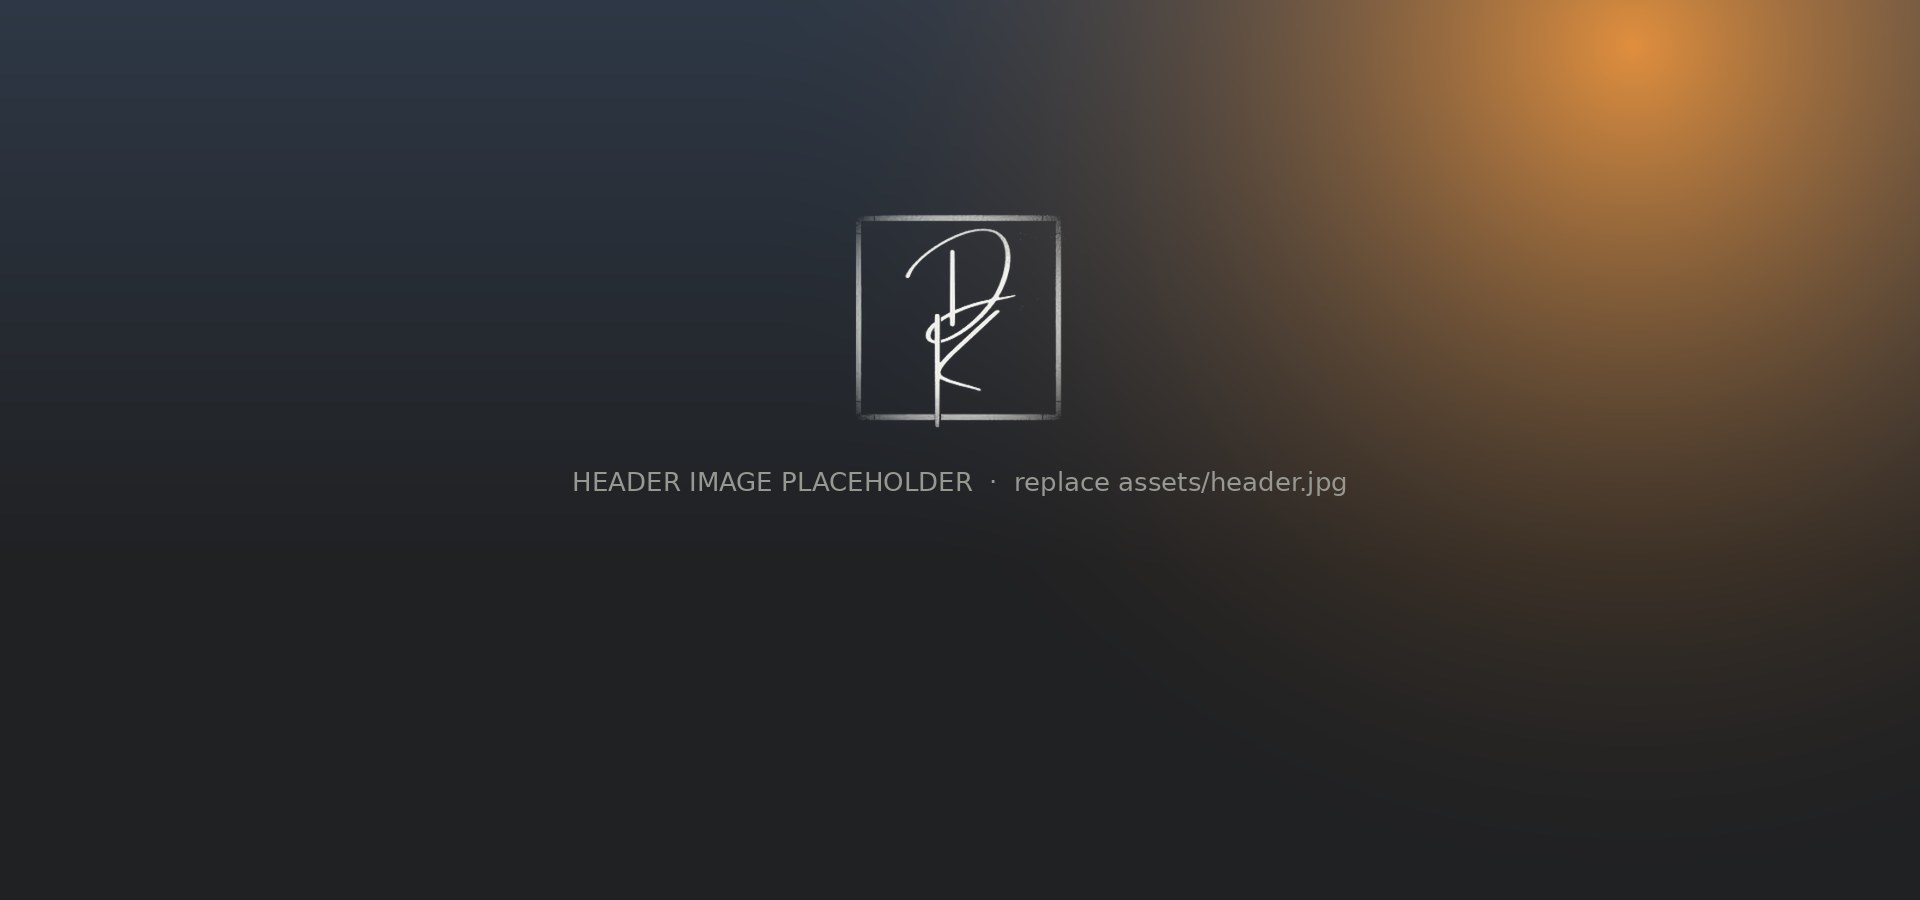
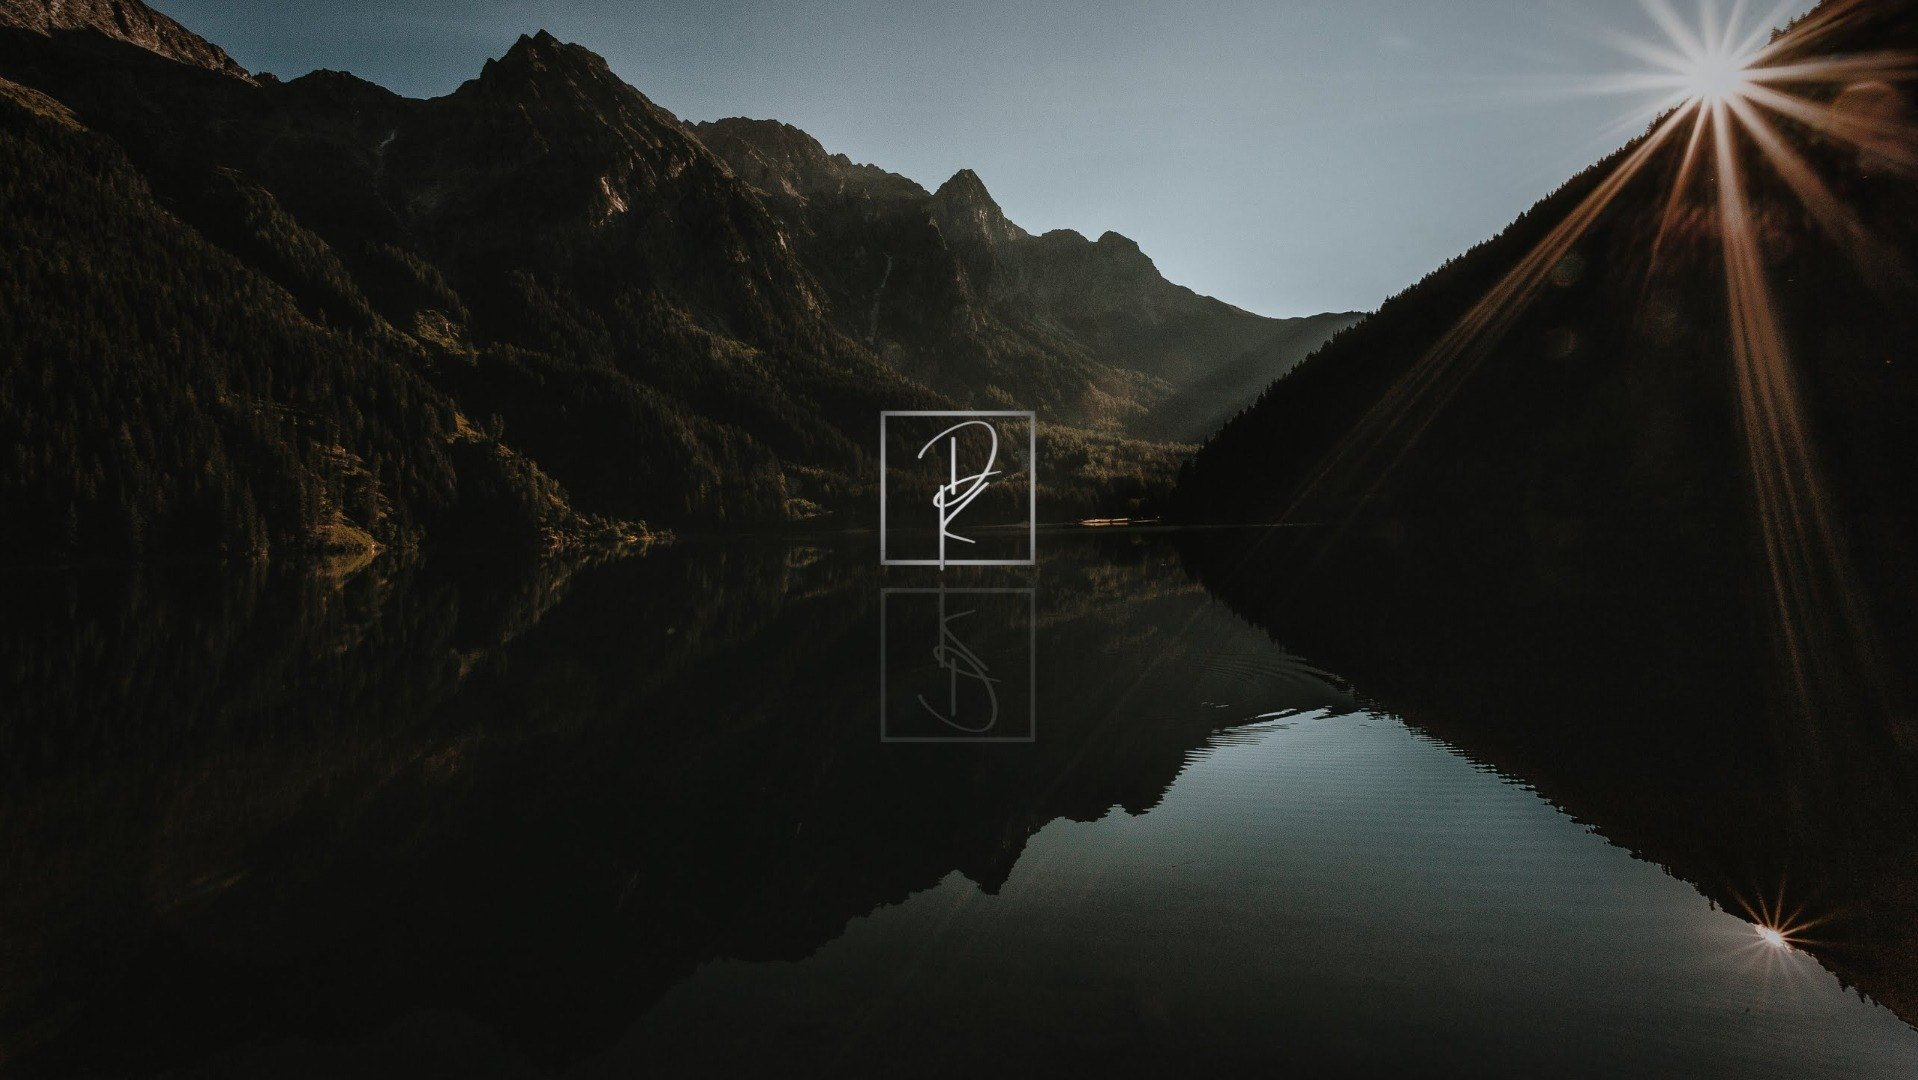
Use real header image; re-sample accent and slate from it

diff --git a/assets/style.css b/assets/style.css
@@ -1,7 +1,7 @@
 /* Klabunde Media portfolio
    Palette: charcoal base (Daniel's request) + YouTube channel @danklabunde (banner/avatar) + header image accents.
-   --text / --muted / --muted-2 sampled from the channel avatar; --line-warm from the banner; --accent is the banner's warm
-   hue (30°) brightened; --slate is the header image's slate-blue sky (provisional until the full-res header is sampled). */
+   --text / --muted / --muted-2 sampled from the channel avatar; --line-warm from the banner; --accent is the header
+   sunburst's hue (22°, rays median #6a4732) brightened; --slate / --slate-deep sampled from the header's sky. */
 :root{
   --bg:#202123;          /* charcoal page background */
   --bg-2:#26272a;        /* alternate section band */
@@ -13,9 +13,10 @@
   --text:#eff0eb;
   --muted:#aeb0a7;
   --muted-2:#878982;
-  --accent:#e08f3e;
-  --accent-soft:rgba(224,143,62,.14);
-  --slate:#6e7f93;
+  --accent:#e07b3e;
+  --accent-soft:rgba(224,123,62,.14);
+  --slate:#738189;      /* header sky, mid */
+  --slate-deep:#42565e; /* header sky, upper */
   --serif:"Cormorant Garamond",Georgia,serif;
   --sans:"Inter",system-ui,-apple-system,"Segoe UI",sans-serif;
   --wrap:1200px;
@@ -53,7 +54,7 @@ code{background:var(--surface-2);padding:1px 6px;border-radius:3px;font-size:.85
 .hero-img{position:absolute;inset:0;background-size:cover;background-position:center 30%;}
 .hero-overlay{position:absolute;inset:0;background:linear-gradient(180deg,rgba(32,33,35,.15) 0%,rgba(32,33,35,.35) 55%,var(--bg) 100%)}
 .hero-content{position:relative;padding-bottom:56px;width:100%}
-.hero h1{font-size:84px;margin-bottom:8px;text-shadow:0 2px 30px rgba(0,0,0,.5)}
+.hero h1{font-size:68px;margin-bottom:8px;text-shadow:0 2px 30px rgba(0,0,0,.5)}
 .hero-sub{font:300 20px/1.5 var(--sans);color:var(--text);opacity:.9;margin-bottom:28px}
 .btn{display:inline-block;border:1px solid var(--line-strong);color:var(--text);padding:13px 30px;font:500 13px/1 var(--sans);letter-spacing:.18em;text-transform:uppercase;transition:.2s}
 .btn:hover{border-color:var(--accent);background:var(--accent);color:#1b1b1c}
@@ -69,7 +70,7 @@ code{background:var(--surface-2);padding:1px 6px;border-radius:3px;font-size:.85
 .video-frame{position:relative;aspect-ratio:16/9;background:var(--surface);border:1px solid var(--line);overflow:hidden}
 .video-frame iframe,.video-frame video{position:absolute;inset:0;width:100%;height:100%;border:0}
 .video-placeholder{position:absolute;inset:0;display:flex;flex-direction:column;align-items:center;justify-content:center;gap:14px;
-  background:radial-gradient(ellipse at 80% 10%,rgba(224,143,62,.16),transparent 55%),radial-gradient(ellipse at 20% 100%,rgba(110,127,147,.14),transparent 60%),var(--surface)}
+  background:radial-gradient(ellipse at 80% 10%,rgba(224,123,62,.16),transparent 55%),radial-gradient(ellipse at 20% 100%,rgba(66,86,94,.22),transparent 60%),var(--surface)}
 .play{width:84px;height:84px;border:1px solid var(--line-strong);border-radius:50%;position:relative}
 .play:after{content:"";position:absolute;left:34px;top:26px;border-left:22px solid var(--text);border-top:16px solid transparent;border-bottom:16px solid transparent}
 .ph-label{font:500 22px/1.3 var(--serif);letter-spacing:.03em}
@@ -109,7 +110,7 @@ code{background:var(--surface-2);padding:1px 6px;border-radius:3px;font-size:.85
 .cta-inner{display:flex;flex-direction:column;align-items:center;gap:12px}
 
 /* page head */
-.page-head{padding:72px 0 40px;border-bottom:1px solid var(--line);background:linear-gradient(180deg,var(--bg-2),var(--bg))}
+.page-head{padding:72px 0 40px;border-bottom:1px solid var(--line);background:linear-gradient(180deg,rgba(66,86,94,.20),var(--bg))}
 .page-head h1{font-size:60px}
 .lede{font:300 20px/1.6 var(--sans);color:var(--muted);max-width:780px;margin:0}
 .crumbs{font-size:13px;color:var(--muted-2);letter-spacing:.06em;margin-bottom:22px}

diff --git a/README.md b/README.md
@@ -3,7 +3,7 @@
 Static site (plain HTML/CSS, tiny JS) for Klabunde Media, hosted on GitHub Pages.
 
 ## Swapping placeholders
-- **Header image:** replace `assets/header.jpg` (keep the filename). The current file is a labeled placeholder.
+- **Header image:** `assets/header.jpg` (1918×1080, cropped from Daniel's screenshot). Replace with the full-res original anytime, keeping the filename.
 - **Main cinematic compilation:** in `index.html`, find `VIDEO SLOT` and replace the `video-placeholder` div with a YouTube/Vimeo `<iframe>` or a `<video>` tag (examples are in the comment). Each project page has the same slot.
 - **Before/after (Color Grading pages):** replace the two `.ba-pane` divs with `<img>` stills.
 - Any text styled as *Placeholder: …* is a stand-in to rewrite.
